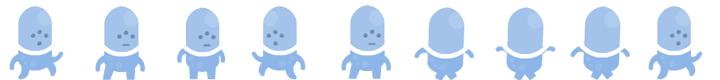
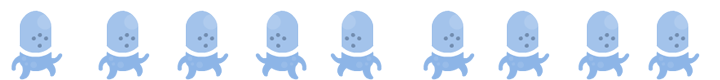
Robots renderings changes

diff --git a/exercices/2019/e-2-1/task.js b/exercices/2019/e-2-1/task.js
@@ -9,7 +9,7 @@ function initTask(subTask) {
     itemTypes: {
       robot: {
         img: "../images/robot/robot_rose.png",
-        side: 80,
+        side: 70,
         nbStates: 9,
         isObstacle: true,
         offsetX: 0,
@@ -130,7 +130,7 @@ function initTask(subTask) {
           [1, 1, 1, 1, 1, 5, 1],
           [1, 9, 10, 1, 1, 1, 1],
           [1, 1, 1, 9, 10, 1, 1],
-          [1, 7, 8, 1, 1, 4, 1],
+          [1, 1, 1, 1, 4, 7, 8],
           [2, 2, 2, 2, 2, 2, 2],
           [3, 3, 3, 3, 3, 3, 3],
           [3, 3, 3, 3, 3, 3, 3]

diff --git a/exercices/2019/e-1-4/task.js b/exercices/2019/e-1-4/task.js
@@ -10,7 +10,7 @@ function initTask(subTask) {
     itemTypes: {
       robot: {
         img: "../images/robot/robot_rose.png",
-        side: 80,
+        side: 70,
         nbStates: 9,
         isObstacle: true,
         offsetX: 0,
@@ -115,7 +115,7 @@ function initTask(subTask) {
     includeBlocks: {
       groupByCategory: false,
       generatedBlocks: {
-        robot: ["forward", "jump"]
+        robot: ["forward", "jump", "turnAround"]
       },
       standardBlocks: {
         includeAll: false,

diff --git a/exercices/2019/e-2-4/task.js b/exercices/2019/e-2-4/task.js
@@ -10,10 +10,10 @@ function initTask(subTask) {
     itemTypes: {
       robot: {
         img: "../images/robot/robot_bleu.png",
-        side: 80,
+        side: 70,
         nbStates: 9,
         isObstacle: true,
-        offsetX: -14,
+        offsetX: 0,
         category: "robot",
         zOrder: 1
       },

diff --git a/exercices/2019/e-3-1/task.js b/exercices/2019/e-3-1/task.js
@@ -10,10 +10,10 @@ function initTask(subTask) {
     itemTypes: {
       robot: {
         img: "../images/robot/robot_rose.png",
-        side: 80,
+        side: 70,
         nbStates: 9,
         isObstacle: true,
-        offsetX: -14,
+        offsetX: 0,
         category: "robot",
         zOrder: 1
       },

diff --git a/exercices/2019/e-1-5/task.js b/exercices/2019/e-1-5/task.js
@@ -10,7 +10,7 @@ function initTask(subTask) {
     itemTypes: {
       robot: {
         img: "../images/robot/robot_rose.png",
-        side: 80,
+        side: 70,
         nbStates: 9,
         isObstacle: true,
         offsetX: 0,

diff --git a/exercices/2019/e-2-2/task.js b/exercices/2019/e-2-2/task.js
@@ -10,7 +10,7 @@ function initTask(subTask) {
     itemTypes: {
       robot: {
         img: "../images/robot/robot_rose.png",
-        side: 80,
+        side: 70,
         nbStates: 9,
         isObstacle: true,
         offsetX: 0,

diff --git a/exercices/2019/e-2-3/task.js b/exercices/2019/e-2-3/task.js
@@ -10,7 +10,7 @@ function initTask(subTask) {
     itemTypes: {
       robot: {
         img: "../images/robot/robot_rose.png",
-        side: 80,
+        side: 70,
         nbStates: 9,
         isObstacle: true,
         offsetX: 0,

diff --git a/exercices/2019/e-3-2/task.js b/exercices/2019/e-3-2/task.js
@@ -10,7 +10,7 @@ function initTask(subTask) {
     itemTypes: {
       robot: {
         img: "../images/robot/robot_rose.png",
-        side: 80,
+        side: 70,
         nbStates: 9,
         isObstacle: true,
         offsetX: 0,
